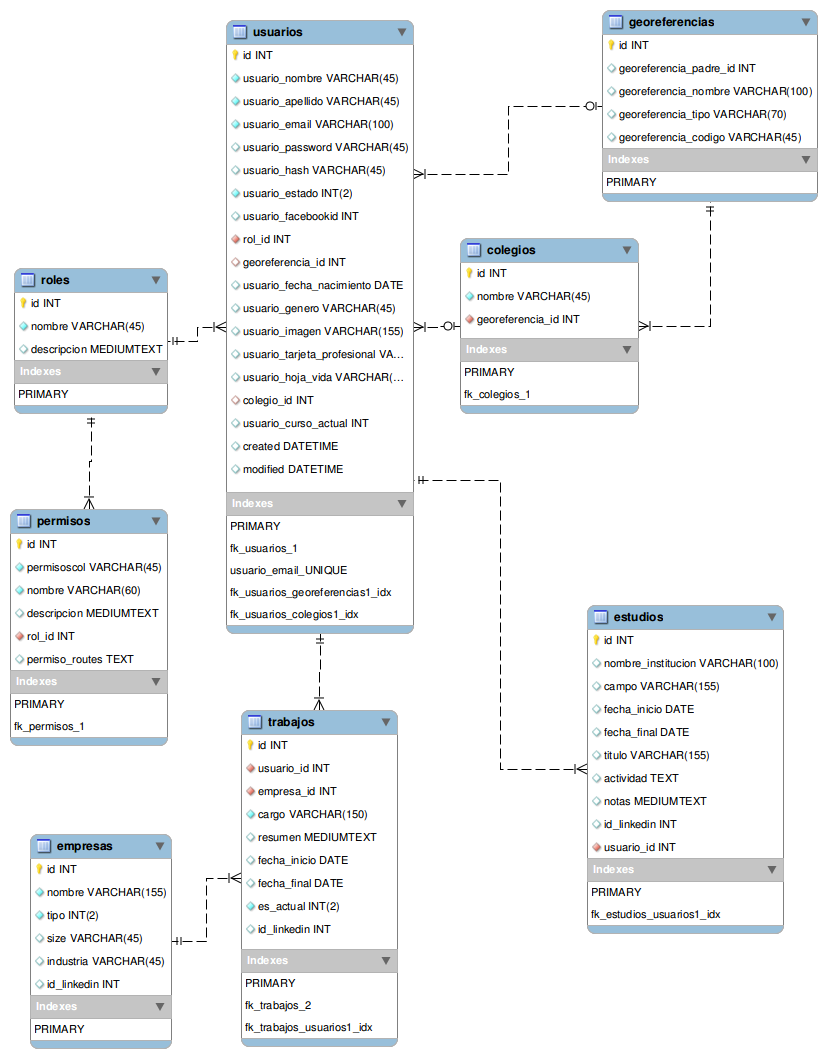
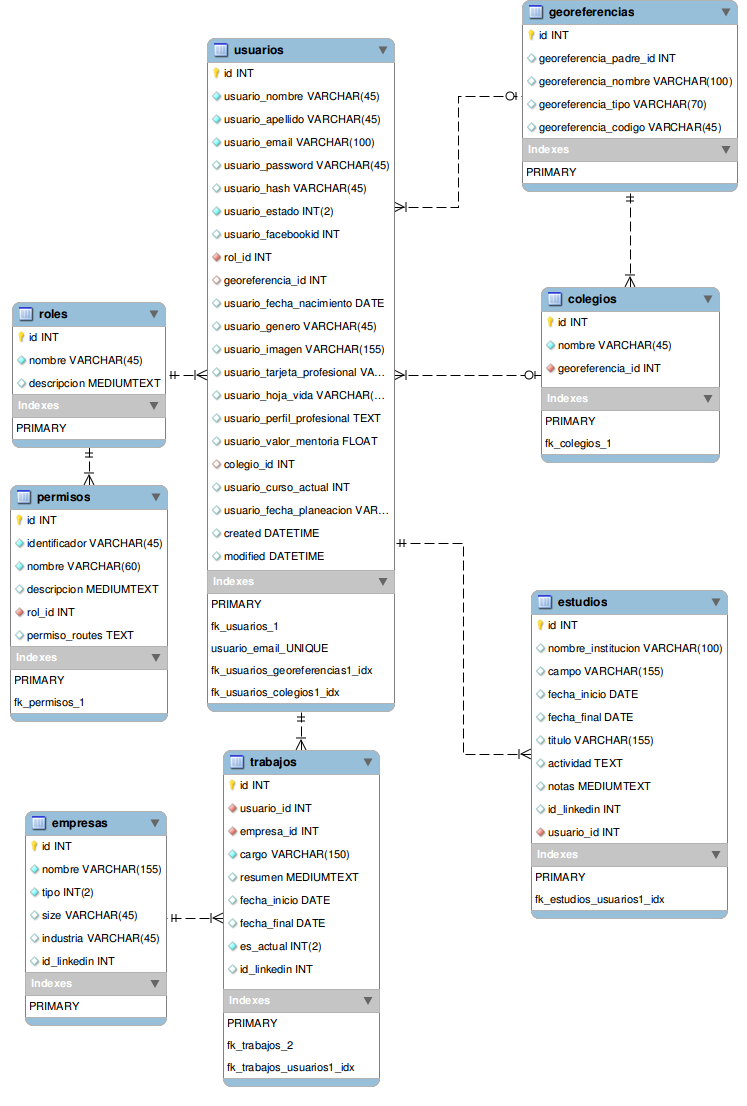
Agregados campos pendientes en DB

Changed region(s): [[0.0, 0.0, 1.0, 0.9981], [0.6774, 0.5302, 0.9853, 0.9045], [0.585, 0.4679, 0.6158, 0.4991]]

diff --git a/src/AT/vocationetBundle/Entity/Usuarios.php b/src/AT/vocationetBundle/Entity/Usuarios.php
@@ -106,11 +106,32 @@ class Usuarios
     private $usuarioHojaVida;
 
     /**
+     * @var string
+     *
+     * @ORM\Column(name="usuario_perfil_profesional", type="text", nullable=true)
+     */
+    private $usuarioPerfilProfesional;
+
+    /**
+     * @var float
+     *
+     * @ORM\Column(name="usuario_valor_mentoria", type="float", nullable=true)
+     */
+    private $usuarioValorMentoria;
+
+    /**
      * @var integer
      *
      * @ORM\Column(name="usuario_curso_actual", type="integer", nullable=true)
      */
     private $usuarioCursoActual;
+
+    /**
+     * @var string
+     *
+     * @ORM\Column(name="usuario_fecha_planeacion", type="string", length=45, nullable=true)
+     */
+    private $usuarioFechaPlaneacion;
 
     /**
      * @var \DateTime
@@ -445,6 +466,52 @@ class Usuarios
     }
 
     /**
+     * Set usuarioPerfilProfesional
+     *
+     * @param string $usuarioPerfilProfesional
+     * @return Usuarios
+     */
+    public function setUsuarioPerfilProfesional($usuarioPerfilProfesional)
+    {
+        $this->usuarioPerfilProfesional = $usuarioPerfilProfesional;
+    
+        return $this;
+    }
+
+    /**
+     * Get usuarioPerfilProfesional
+     *
+     * @return string 
+     */
+    public function getUsuarioPerfilProfesional()
+    {
+        return $this->usuarioPerfilProfesional;
+    }
+
+    /**
+     * Set usuarioValorMentoria
+     *
+     * @param float $usuarioValorMentoria
+     * @return Usuarios
+     */
+    public function setUsuarioValorMentoria($usuarioValorMentoria)
+    {
+        $this->usuarioValorMentoria = $usuarioValorMentoria;
+    
+        return $this;
+    }
+
+    /**
+     * Get usuarioValorMentoria
+     *
+     * @return float 
+     */
+    public function getUsuarioValorMentoria()
+    {
+        return $this->usuarioValorMentoria;
+    }
+
+    /**
      * Set usuarioCursoActual
      *
      * @param integer $usuarioCursoActual
@@ -465,6 +532,29 @@ class Usuarios
     public function getUsuarioCursoActual()
     {
         return $this->usuarioCursoActual;
+    }
+
+    /**
+     * Set usuarioFechaPlaneacion
+     *
+     * @param string $usuarioFechaPlaneacion
+     * @return Usuarios
+     */
+    public function setUsuarioFechaPlaneacion($usuarioFechaPlaneacion)
+    {
+        $this->usuarioFechaPlaneacion = $usuarioFechaPlaneacion;
+    
+        return $this;
+    }
+
+    /**
+     * Get usuarioFechaPlaneacion
+     *
+     * @return string 
+     */
+    public function getUsuarioFechaPlaneacion()
+    {
+        return $this->usuarioFechaPlaneacion;
     }
 
     /**
